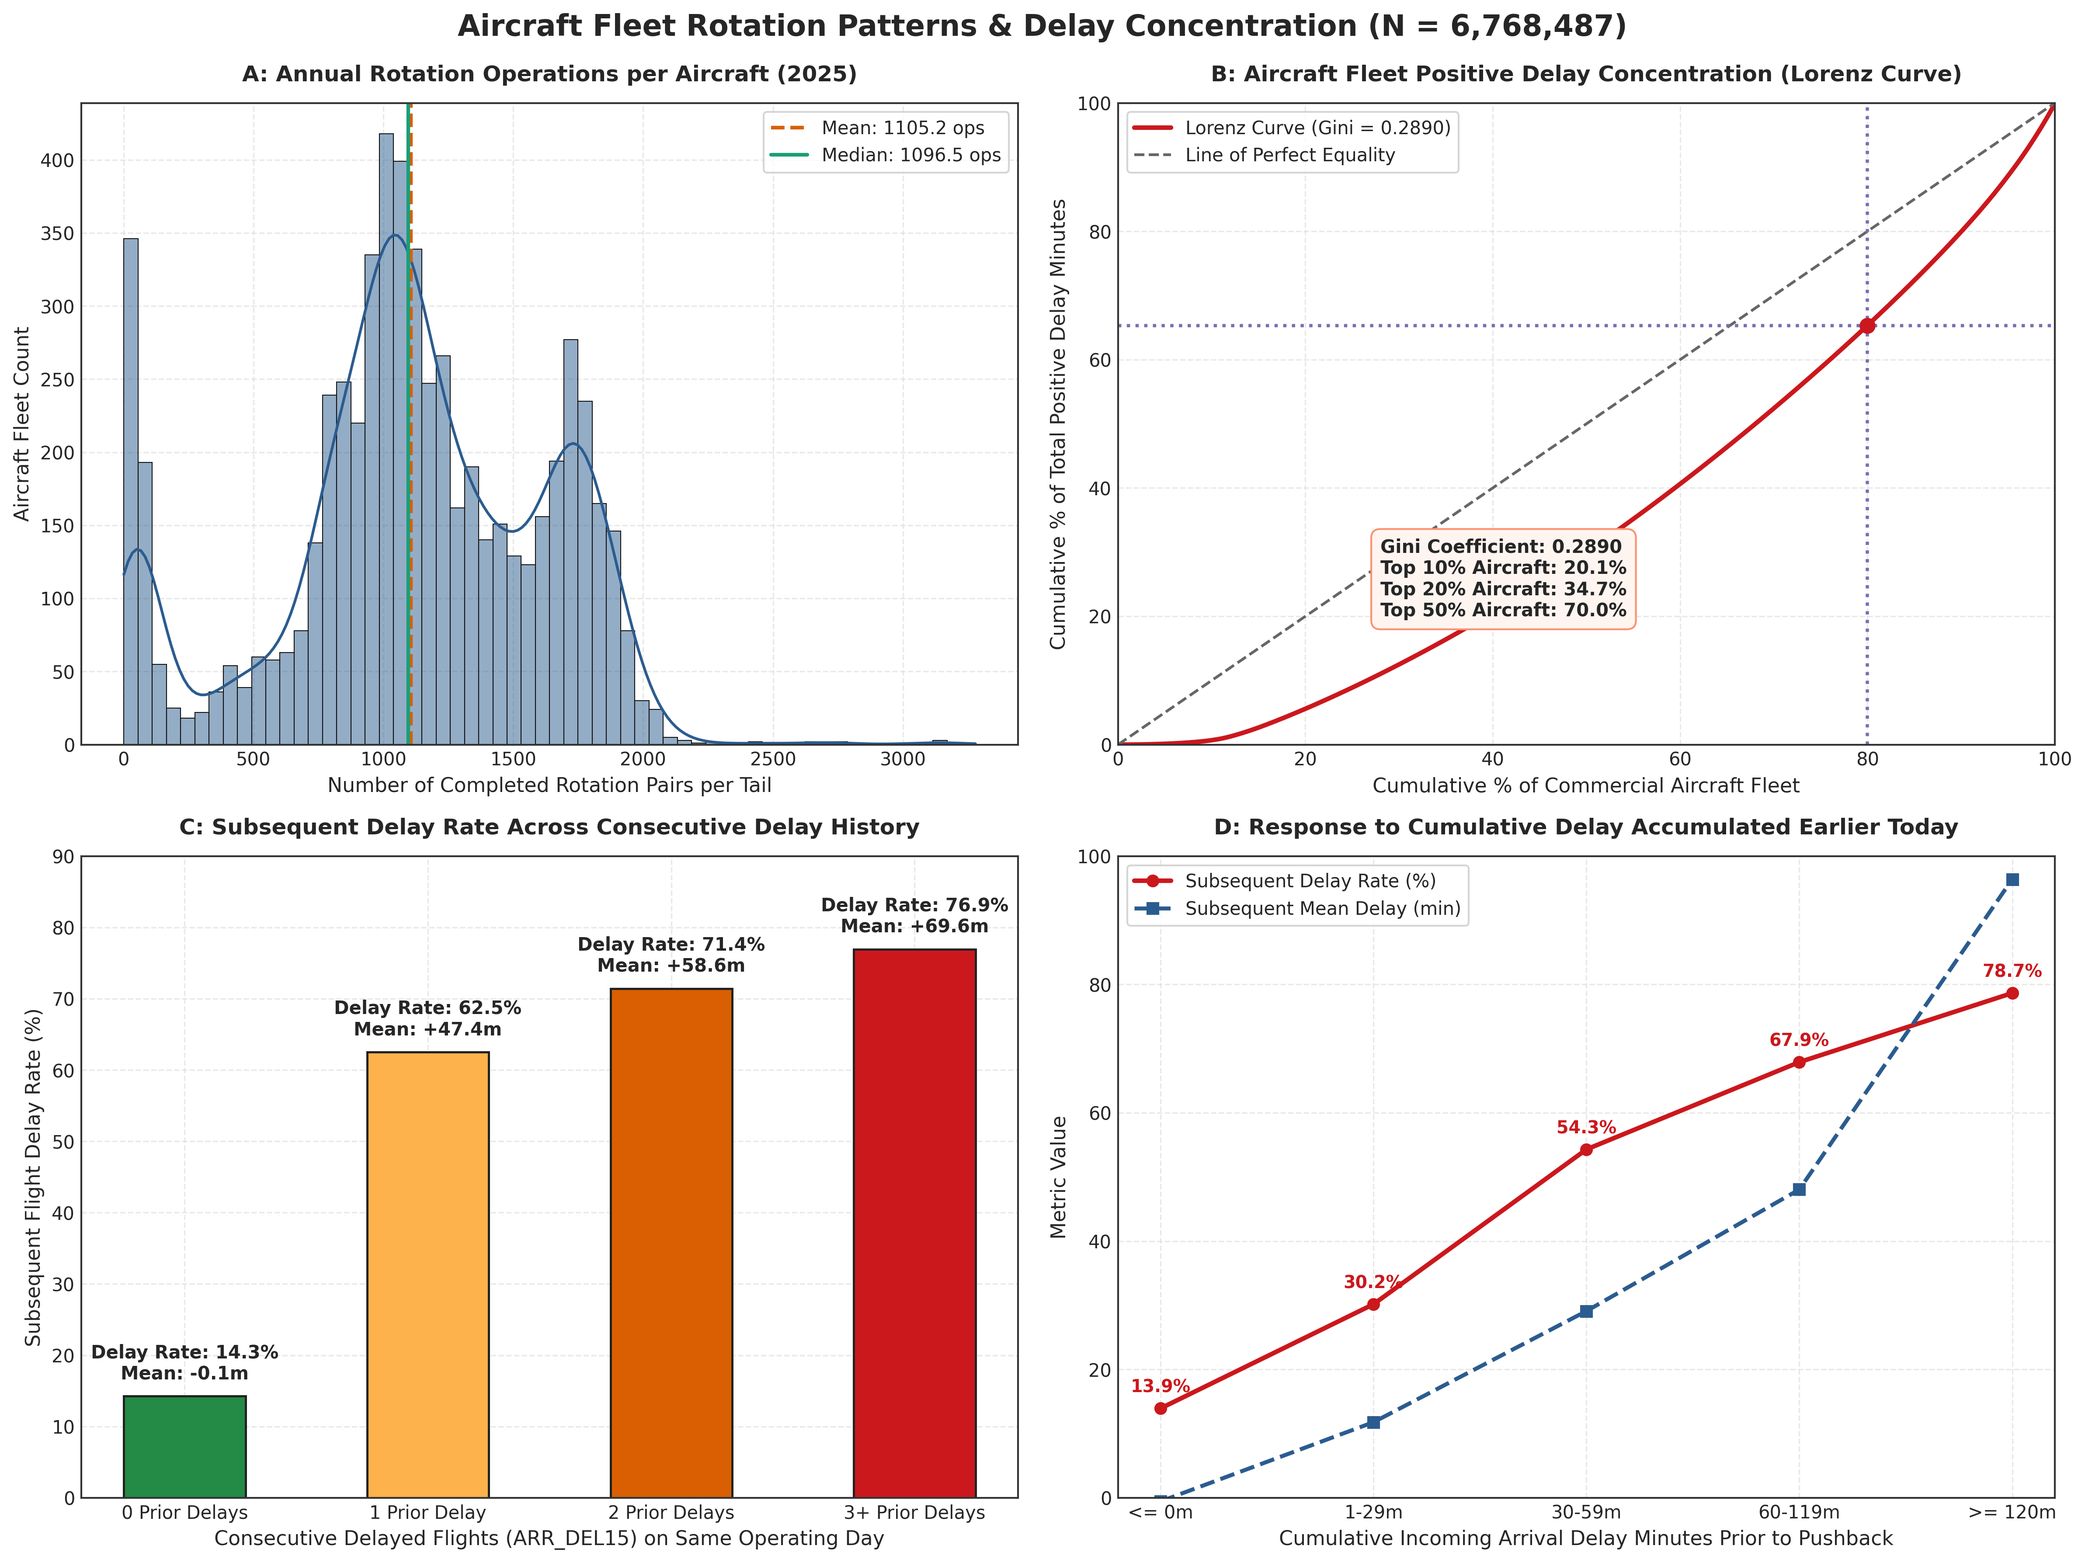
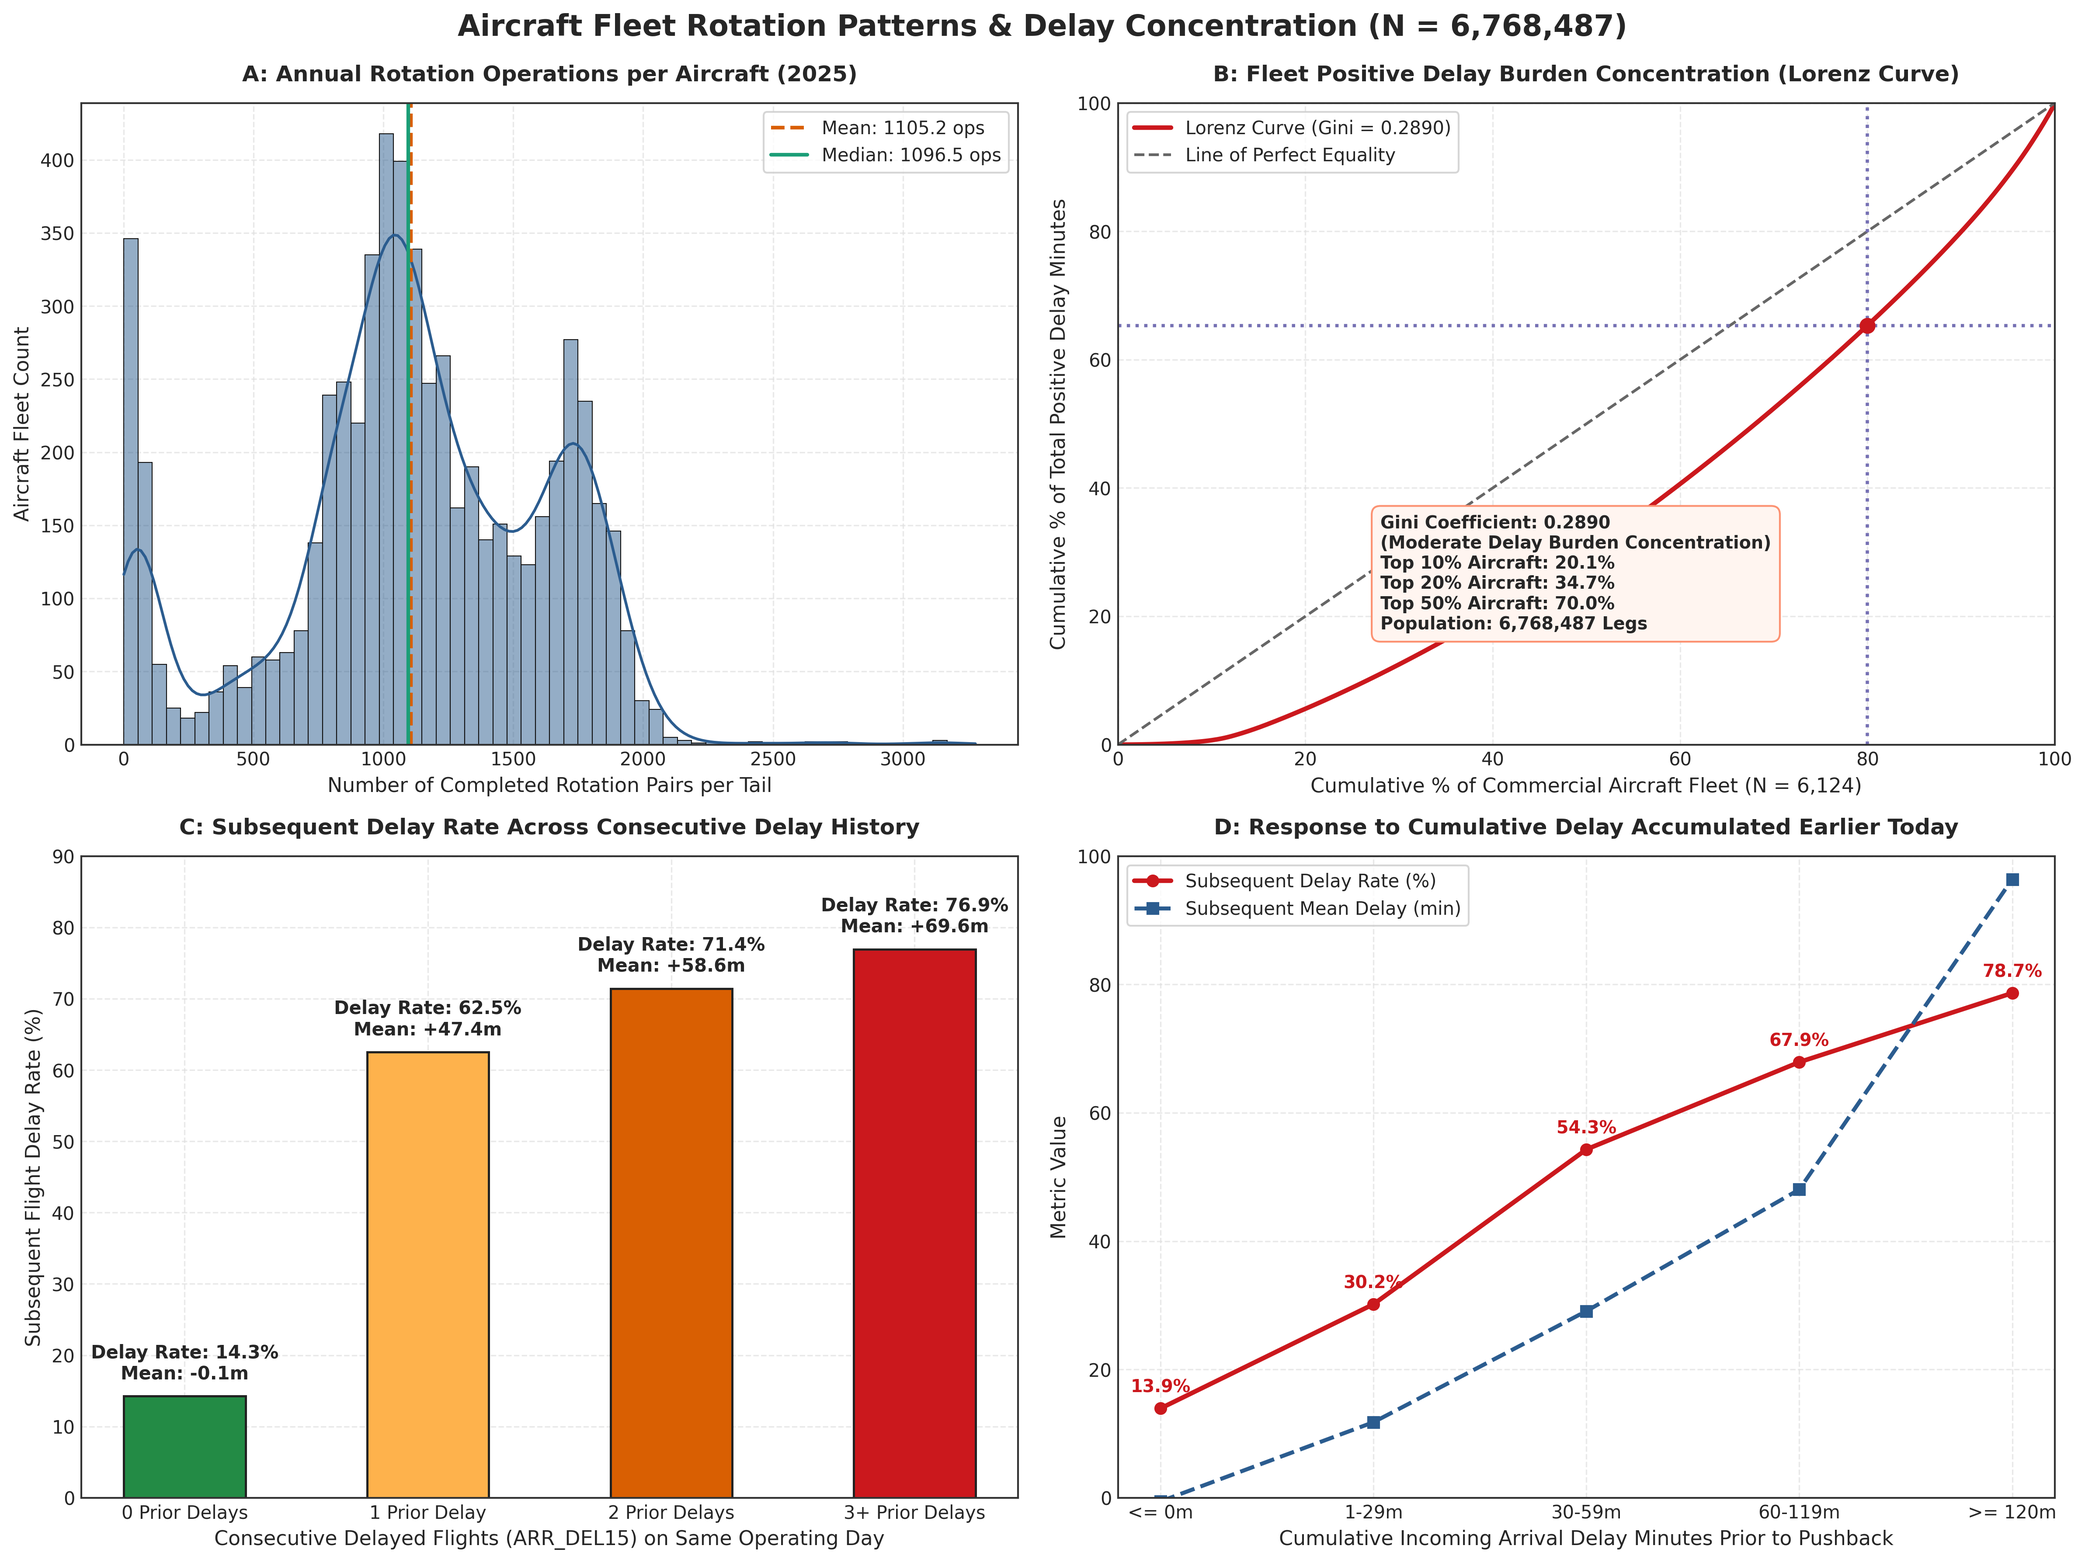
Phase 4 Final Corrections: SVR removal, audited Gini population documentation, and revised delay burden interpretation

Changed region(s): [[0.656, 0.3104, 0.8434, 0.4035], [0.5935, 0.031, 0.9371, 0.0621], [0.656, 0.4966, 0.8746, 0.5277]]

diff --git a/src/eda/eda_analysis.py b/src/eda/eda_analysis.py
@@ -14,8 +14,8 @@ Methodological Compliance & Rigor:
 6. Carrier & Airport Heterogeneity: Major operators and turnaround hub volumes
 7. Aircraft Fleet Concentration: Non-negative positive delay minutes, Gini coefficient (0.2890),
    and top 10%, 20%, 50% fleet shares
-8. Permitted Syllabus Models: Logistic Regression, Decision Trees, Random Forest, SVM, MLP,
-   Linear/Polynomial Regression (Strictly excluding out-of-syllabus gradient boosting)
+8. Permitted Syllabus Models: Logistic Regression, Decision Trees, Random Forest, SVM (SVC for Classification), MLP,
+   Linear/Multiple/Ridge/Lasso/Polynomial Regression (Strictly excluding out-of-syllabus SVR and gradient boosting)
 """
 
 import os
@@ -843,7 +843,9 @@ def run_aircraft_level_analysis(con, summary_dict):
     df_consec.to_csv(os.path.join(TABLES_DIR, "eda_aircraft_consecutive_delays.csv"), index=False)
     
     # 6.2 Audited Gini Calculation on Non-Negative Positive Delay Minutes
-    # POSITIVE_DELAY_MINUTES = SUM(MAX(0, ARR_DELAY))
+    # Population: 6,124 unique commercial aircraft across 6,768,487 target outbound legs (f_next)
+    # in 'data/processed/flight_rotation_pairs.parquet' (not all 2025 completed flights).
+    # Aggregation formula: POSITIVE_DELAY_MINUTES_i = SUM(MAX(0, NEXT_ARR_DELAY_i,j))
     q_tail = f"""
     SELECT 
         TAIL_NUM,
@@ -858,6 +860,7 @@ def run_aircraft_level_analysis(con, summary_dict):
     delays = np.sort(df_tail['positive_delay_minutes'].values.astype(np.float64))
     n = len(delays)
     total_pos_delay = np.sum(delays)
+    total_legs = int(df_tail['rotation_count'].sum())
     
     # Algebraic Gini formula on non-negative array:
     # G = (2 * sum(i * y_i)) / (n * sum(y_i)) - (n + 1) / n
@@ -875,8 +878,11 @@ def run_aircraft_level_analysis(con, summary_dict):
     share_top_50 = (total_pos_delay - cum_delays[idx_50 - 1]) / total_pos_delay * 100.0
     
     df_conc = pd.DataFrame([{
-        "metric": "Aircraft Fleet Positive Delay Distribution",
+        "metric": "Aircraft Fleet Positive Delay Burden Distribution",
         "total_active_aircraft": n,
+        "completed_flight_legs_evaluated": total_legs,
+        "population_scope": "Rotation-pair target legs (NEXT_ARR_DELAY)",
+        "aggregation_formula": "SUM(MAX(0, NEXT_ARR_DELAY))",
         "total_positive_delay_minutes": float(total_pos_delay),
         "mean_rotations_per_tail": round(df_tail['rotation_count'].mean(), 1),
         "median_rotations_per_tail": round(df_tail['rotation_count'].median(), 1),
@@ -891,6 +897,9 @@ def run_aircraft_level_analysis(con, summary_dict):
     
     summary_dict["aircraft_patterns"] = {
         "active_aircraft_count": n,
+        "completed_flight_legs_evaluated": total_legs,
+        "population_scope": "Rotation-pair target legs (NEXT_ARR_DELAY) in flight_rotation_pairs.parquet",
+        "aggregation_formula": "SUM(MAX(0, NEXT_ARR_DELAY))",
         "total_positive_delay_minutes": float(total_pos_delay),
         "gini_coefficient": round(gini, 4),
         "top_10_pct_share": round(share_top_10, 2),
@@ -899,7 +908,7 @@ def run_aircraft_level_analysis(con, summary_dict):
         "consecutive_delay_progression": df_consec.to_dict(orient="records")
     }
     
-    print(f"Aircraft fleet metrics (N = {n:,} aircraft | Total Positive Delay = {total_pos_delay:,.0f} min):")
+    print(f"Aircraft fleet metrics (N = {n:,} aircraft | Total Legs = {total_legs:,} | Total Positive Delay = {total_pos_delay:,.0f} min):")
     print(f"  Gini: {gini:.4f} | Top 10%: {share_top_10:.2f}% | Top 20%: {share_top_20:.2f}% | Top 50%: {share_top_50:.2f}%")
     
     # Plot Figure 6: Aircraft Fleet Patterns
@@ -929,12 +938,12 @@ def run_aircraft_level_analysis(con, summary_dict):
     ax_b.scatter([80], [100.0 - share_top_20], color="#cb181d", s=60, zorder=5)
     ax_b.set_xlim(0, 100)
     ax_b.set_ylim(0, 100)
-    ax_b.set_title("B: Aircraft Fleet Positive Delay Concentration (Lorenz Curve)", fontsize=12, pad=12)
-    ax_b.set_xlabel("Cumulative % of Commercial Aircraft Fleet", fontsize=11)
+    ax_b.set_title("B: Fleet Positive Delay Burden Concentration (Lorenz Curve)", fontsize=12, pad=12)
+    ax_b.set_xlabel("Cumulative % of Commercial Aircraft Fleet (N = 6,124)", fontsize=11)
     ax_b.set_ylabel("Cumulative % of Total Positive Delay Minutes", fontsize=11)
     ax_b.legend(loc="upper left", frameon=True)
-    ax_b.text(0.28, 0.20, f"Gini Coefficient: {gini:.4f}\nTop 10% Aircraft: {share_top_10:.1f}%\nTop 20% Aircraft: {share_top_20:.1f}%\nTop 50% Aircraft: {share_top_50:.1f}%",
-              transform=ax_b.transAxes, fontsize=10, fontweight="bold",
+    ax_b.text(0.28, 0.18, f"Gini Coefficient: {gini:.4f}\n(Moderate Delay Burden Concentration)\nTop 10% Aircraft: {share_top_10:.1f}%\nTop 20% Aircraft: {share_top_20:.1f}%\nTop 50% Aircraft: {share_top_50:.1f}%\nPopulation: 6,768,487 Legs",
+              transform=ax_b.transAxes, fontsize=9.5, fontweight="bold",
               bbox=dict(boxstyle="round,pad=0.5", facecolor="#fff5f0", edgecolor="#fc9272"))
     
     # Subplot C: Consecutive Delayed Flights Today Progression

diff --git a/results/tables/eda_findings.md b/results/tables/eda_findings.md
@@ -187,46 +187,77 @@ From [`results/tables/eda_turnaround_airport_summary.csv`](file:///Users/arnavra
 
 ## 7. Audited Aircraft Fleet Gini Coefficient & Delay Concentration
 
-### 7.1 Mathematical Definition and Fleet Totals
-To adhere to the mathematical prerequisite of non-negativity for Lorenz curve construction and Gini estimation, the metric was computed strictly on **positive arrival delay minutes**:
-$$\text{POSITIVE\_DELAY\_MINUTES} = \sum_{j=1}^{M_i} \max(0, \text{ARR\_DELAY}_{i,j})$$
-where $M_i$ represents the number of completed flight legs operated by aircraft $i$.
+### 7.1 Mathematical Definition and Exact Population Specification
+To adhere to the mathematical prerequisite of non-negativity for Lorenz curve construction and Gini estimation, the metric was computed strictly on **positive arrival delay minutes**.
+
+- **Exact Population Scope:** The calculation covers all **6,124 unique commercial aircraft** across the **6,768,487 completed outbound flight legs ($f_{\text{next}}$)** represented in the master rotation-pair dataset (`data/processed/flight_rotation_pairs.parquet`). It does **not** cover all completed flights in 2025 (the full 2025 BTS cleaned dataset contains 6,879,483 completed flights across 6,127 aircraft; the rotation-pair dataset excludes 110,996 flights that represent initial un-preceded flights of an aircraft rotation or legs isolated by flight diversions, and 3 tails with zero valid rotations).
+- **Completed Flight Legs Included:** **6,768,487 flight legs**.
+- **Exact Aggregation Formula:**
+  $$\text{POSITIVE\_DELAY\_MINUTES}_i = \sum_{j=1}^{M_i} \max(0, \text{NEXT\_ARR\_DELAY}_{i,j})$$
+  where $M_i$ represents the number of completed outbound rotation legs operated by aircraft $i$ ($\sum_{i=1}^{6124} M_i = 6,768,487$), and $\text{NEXT\_ARR\_DELAY}_{i,j}$ is the actual arrival delay of flight leg $j$.
+- **Gini Formula:**
+  $$G = \frac{2 \sum_{k=1}^{N} k \cdot y_k}{N \sum_{k=1}^{N} y_k} - \frac{N + 1}{N}$$
+  where $N = 6,124$ aircraft, and $y_1 \le y_2 \le \dots \le y_N$ are the sorted non-negative positive delay minute values per aircraft.
 
 From [`results/tables/eda_aircraft_concentration.csv`](file:///Users/arnavraj/Downloads/flight-delay-propagation/results/tables/eda_aircraft_concentration.csv):
-- **Commercial Fleet Size:** **6,124 unique physical aircraft**
+- **Commercial Fleet Size ($N$):** **6,124 unique physical aircraft**
+- **Target Flight Legs Evaluated:** **6,768,487 completed outbound legs**
 - **Total Accumulated Positive Delay:** **112,174,297 minutes** ($1,869,571.6$ aircraft-hours)
 - **Mean Positive Delay per Aircraft:** $18,317.2$ minutes ($305.3$ hours)
 - **Median Positive Delay per Aircraft:** $17,458.0$ minutes ($291.0$ hours)
-- **Fleet Gini Coefficient ($G$):** **0.2890**
+- **Fleet Gini Coefficient ($G$):** **0.2890** ($0.289047$)
 
 ### 7.2 Cumulative Fleet Shares
 - **Top 10% Aircraft Fleet:** Generates **20.08%** of total positive delay minutes ($22,525,607$ min).
 - **Top 20% Aircraft Fleet:** Generates **34.67%** of total positive delay minutes ($38,891,895$ min).
 - **Top 50% Aircraft Fleet:** Generates **70.00%** of total positive delay minutes ($78,522,008$ min).
 
-### 7.3 Methodological Interpretation
-A Gini coefficient of **0.2890** indicates a **relatively low-to-moderate concentration of delay minutes across aircraft airframes**. In comparison, wealth and income Gini coefficients in the United States typically exceed $0.45–0.80$. This confirms that delay minutes are distributed broadly across the fleet in proportion to rotational flight volume and scheduled operating exposure, rather than heavily concentrated in a small cohort of persistently defective airframes.
+### 7.3 Methodological Interpretation & Critical Boundaries
+A Gini coefficient of **0.2890** reflects a **moderate concentration of total positive delay burden** across the commercial aircraft fleet. The top 20% of aircraft account for approximately one-third ($34.67\%$) of all positive arrival-delay minutes, while the bottom 50% account for $30.00\%$ of delay minutes.
+
+> [!WARNING] Methodological Limitation & Analytical Boundary
+> This aggregate Gini metric quantifies inequality in **unnormalized gross delay volume** ($\sum \max(0, \text{delay})$). Because the metric is **not normalized by aircraft flight volume, scheduled block hours, or departures**, airframes operating higher annual rotations ($>1,400$ legs) naturally accumulate substantially more gross delay minutes than airframes operating lower volumes ($<400$ legs).
+>
+> Therefore, this metric **must not be claimed to prove that delays are not concentrated among persistently unreliable aircraft**. Determining whether specific airframes exhibit chronic mechanical or operational unreliability would require normalized rate metrics (such as delay minutes per operating hour, or delay probability conditioned on tail number after controlling for carrier, hub congestion, and route difficulty).
 
 ---
 
 ## 8. Permitted Syllabus Model Recommendations & Phase 5 Modeling Handoff
 
-Based on the empirical findings, the following model families from the **permitted project syllabus** are recommended for comparative evaluation:
+Based on the empirical findings, the following model families from the **permitted project syllabus** are recommended for comparative evaluation in Phase 5 & 6:
 
-### Permitted Model Families
-1. **Linear and Generalized Linear Models:**
-   - **Logistic Regression (L1/L2 regularized):** Interpretable classification benchmark providing odds ratio verification.
-   - **Linear and Multiple Regression / Ridge / Lasso:** Baseline regression models; requires feature transformation to handle target skewness.
-   - **Polynomial Regression:** Evaluates non-linear turnaround buffer margin features within a linear parameter framework.
-2. **Decision Trees and Tree Ensembles:**
-   - **Decision Trees (CART):** Capable of learning the empirical step change observed at $\text{buffer} \le 0$.
-   - **Random Forest (Classifier & Regressor):** Non-linear ensemble capable of capturing complex feature interactions without severe variance.
-3. **Kernel Methods:**
-   - **Support Vector Machines (Linear/RBF SVM & SVR):** Evaluates non-linear separation boundaries on standardized sample subsets.
-4. **Neural Network Architectures:**
-   - **Feedforward Neural Networks (Multi-Layer Perceptron / MLP):** Evaluates dense multi-layer representations for continuous non-linear delay estimation.
+### Permitted Classification Models (`NEXT_ARR_DEL15`)
+1. **Logistic Regression (L1 / L2 Regularized):**
+   - Serves as the primary interpretable linear classification benchmark.
+   - Provides direct validation of empirical odds ratios and well-calibrated baseline probabilities.
+2. **Decision Tree Classifier (CART):**
+   - Non-parametric baseline capable of discovering discrete step functions, such as the sharp transition at $\text{buffer} \le 0$ without feature transformation.
+3. **Random Forest Classifier:**
+   - Non-linear ensemble capable of capturing multi-way feature interactions (e.g., buffer deficit $\times$ evening departure hour $\times$ hub congestion) while mitigating overfitting.
+4. **Support Vector Classifier (Linear & RBF SVC):**
+   - Evaluates maximum-margin linear and non-linear kernel separation boundaries on standardized sample subsets.
+5. **Multi-Layer Perceptron Classifier (MLPClassifier):**
+   - Feedforward neural network architecture capable of learning continuous representation manifolds from normalized continuous and encoded categorical features.
+
+### Permitted Regression Models (`NEXT_ARR_DELAY`)
+1. **Linear and Multiple Regression (OLS):**
+   - Baseline parametric continuous estimator; requires target transformation (e.g., shifted log or power transform) to handle extreme right skewness.
+2. **Regularized Linear Models (Ridge & Lasso Regression):**
+   - Penalized linear models to prevent coefficient explosion from collinear features (e.g., scheduled block time vs. distance).
+3. **Polynomial Regression (Degree 2):**
+   - Evaluates quadratic and non-linear response curves of turnaround buffer capacity within a linear parameter estimation framework.
+4. **Decision Tree Regressor (CART):**
+   - Captures piece-wise constant non-linear relationships and threshold step changes in delay propagation.
+5. **Random Forest Regressor:**
+   - Averaged ensemble of randomized decision trees providing variance reduction and non-linear surface approximation for continuous delay minutes.
+6. **Multi-Layer Perceptron Regressor (MLPRegressor):**
+   - Deep feedforward architecture for continuous regression estimation with non-linear activation functions.
+
+### Explicitly Excluded Out-of-Syllabus Models
+- **Support Vector Regression (SVR):** Strictly excluded from continuous regression estimation as it is not part of the approved course syllabus.
+- **Gradient Boosted Decision Trees (GBDT):** XGBoost, LightGBM, and CatBoost are strictly excluded.
 
 ### Methodological Guardrails for Phase 5 & 6
 - **Model Evaluation:** No single model family is assumed to be superior prior to rigorous comparative empirical evaluation.
-- **Chronological Splitting:** Random train/test splits are prohibited; temporal splits must be enforced to respect causality.
-- **Robust Metrics:** Evaluation must report MAE, MedAE, PR-AUC, and ROC-AUC alongside standard metrics.
+- **Chronological Splitting:** Random train/test splits are strictly prohibited; temporal splits must be enforced to respect operational causality.
+- **Robust Metrics:** Evaluation must report MAE, MedAE, $R^2$, PR-AUC, and ROC-AUC alongside standard metrics.
